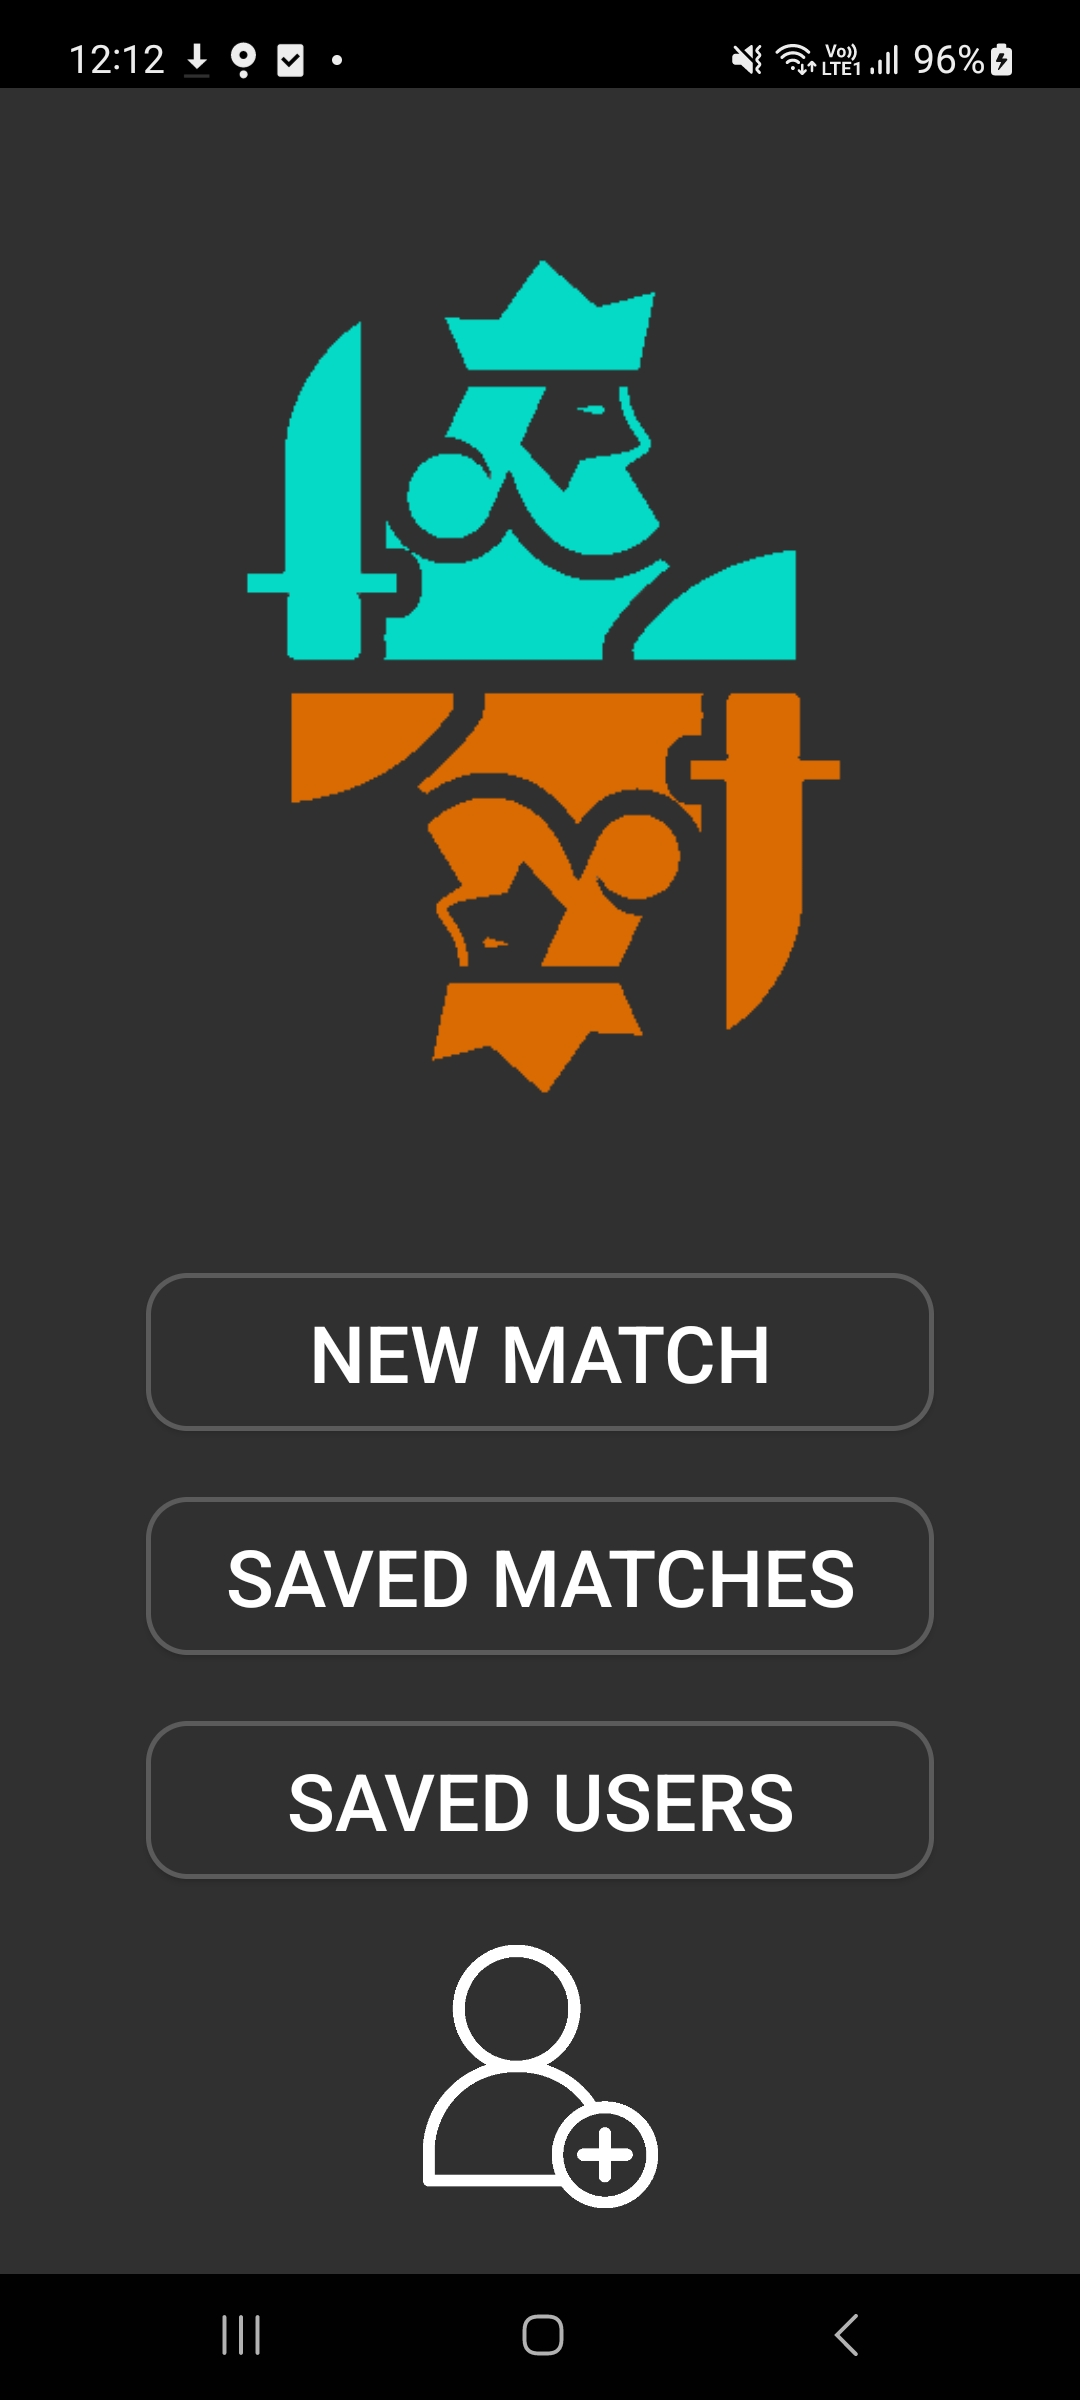
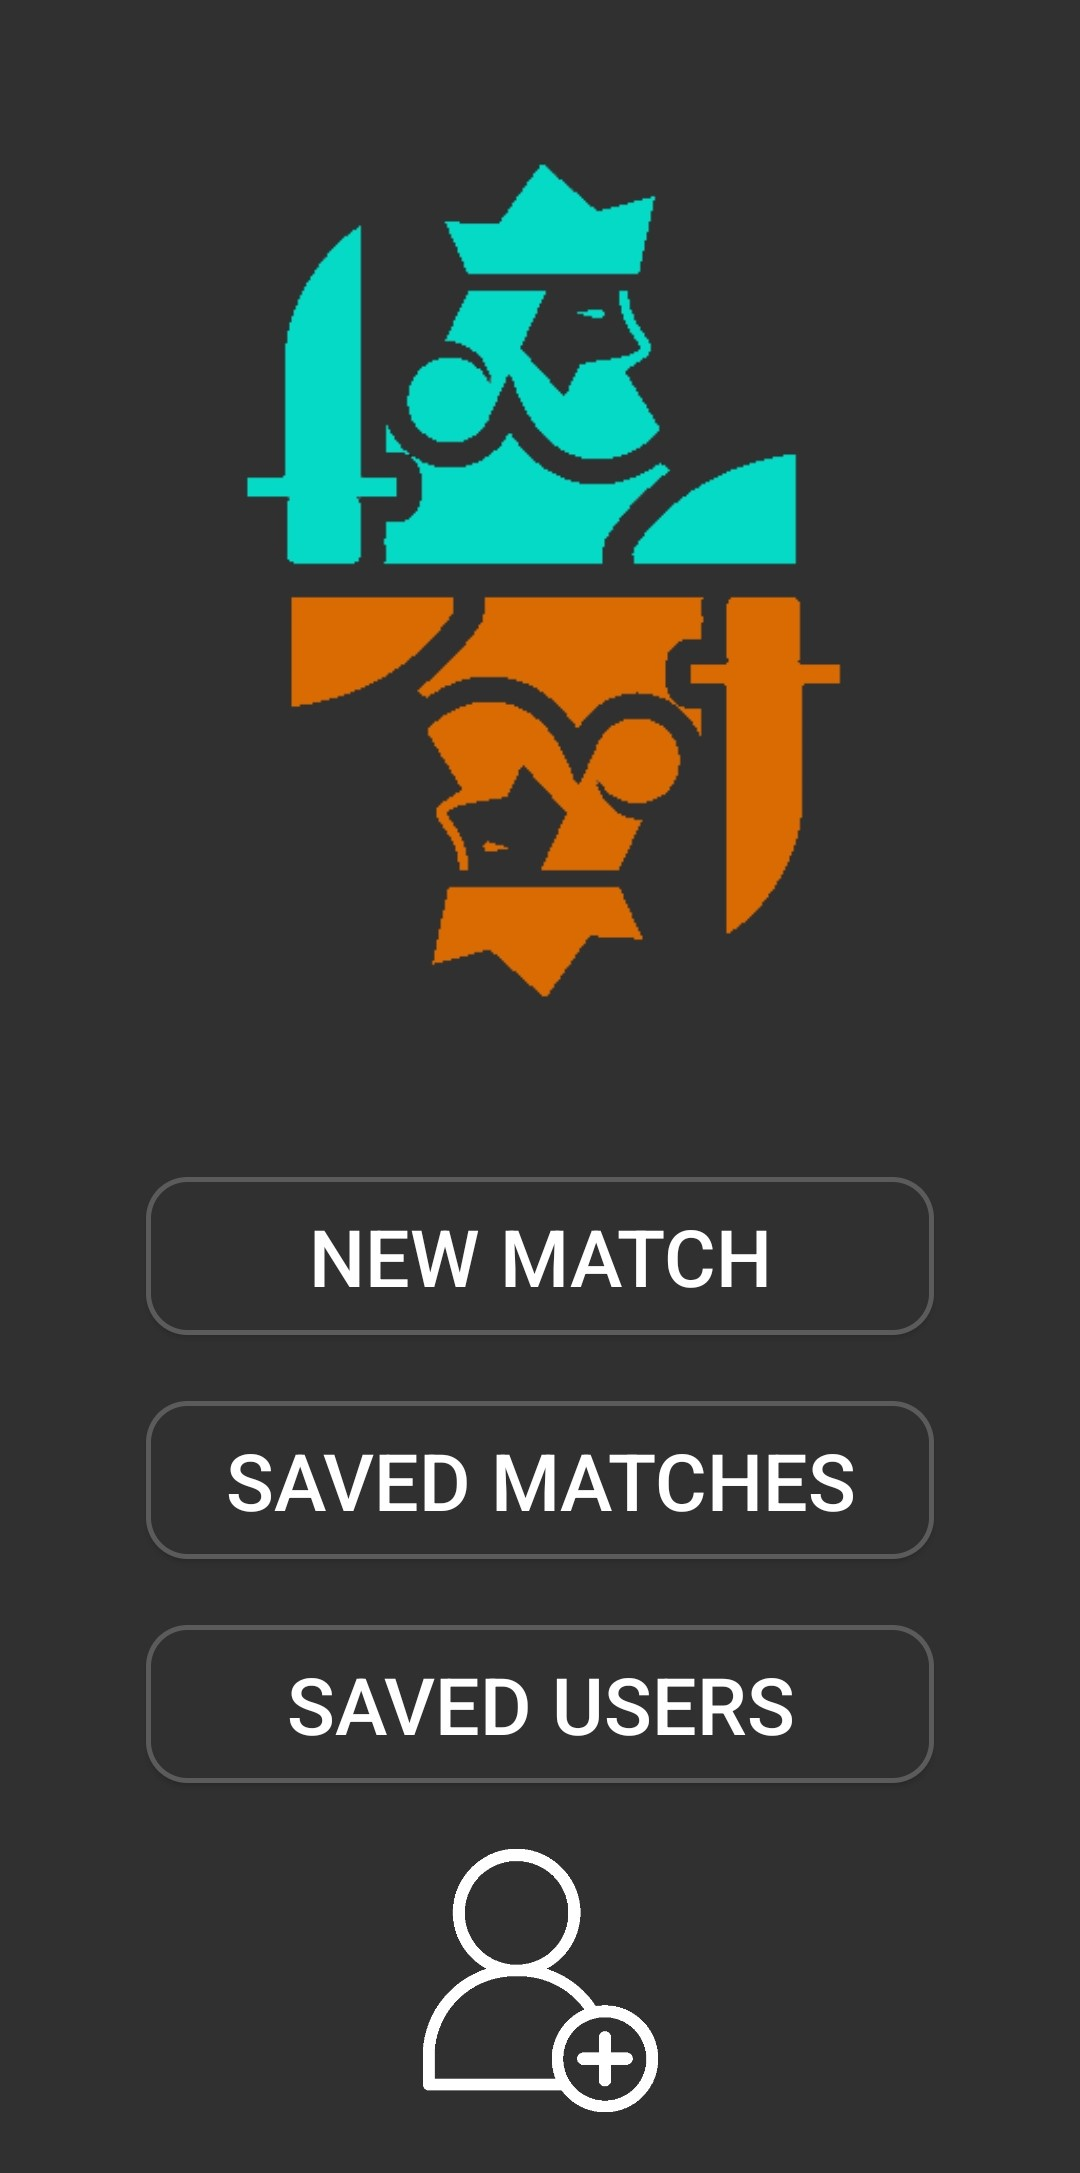
fixed README.md img size

diff --git a/README.md b/README.md
@@ -1,11 +1,11 @@
 ## Screenshots
 
-<img loading="lazy" src="./readme_imgs/mainscreen.jpg" alt="mainmenu" />
+<img loading="lazy" height="50px" src="./readme_imgs/mainscreen.jpg" alt="mainmenu" />
 
-<img loading="lazy" src="./readme_imgs/roundlist.jpg" alt="roundlist" />
+<img loading="lazy" height="50px" src="./readme_imgs/roundlist.jpg" alt="roundlist" />
 
-<img loading="lazy" src="./readme_imgs/calculator.jpg" alt="calculator" />
+<img loading="lazy" height="50px" src="./readme_imgs/calculator.jpg" alt="calculator" />
 
-<img loading="lazy" src="./readme_imgs/gameend.jpg" alt="gameend" />
+<img loading="lazy" height="50px" src="./readme_imgs/gameend.jpg" alt="gameend" />
 
-<img loading="lazy" src="./readme_imgs/graph.jpg" alt="graph" /> 
+<img loading="lazy" height="50px" src="./readme_imgs/graph.jpg" alt="graph" /> 
